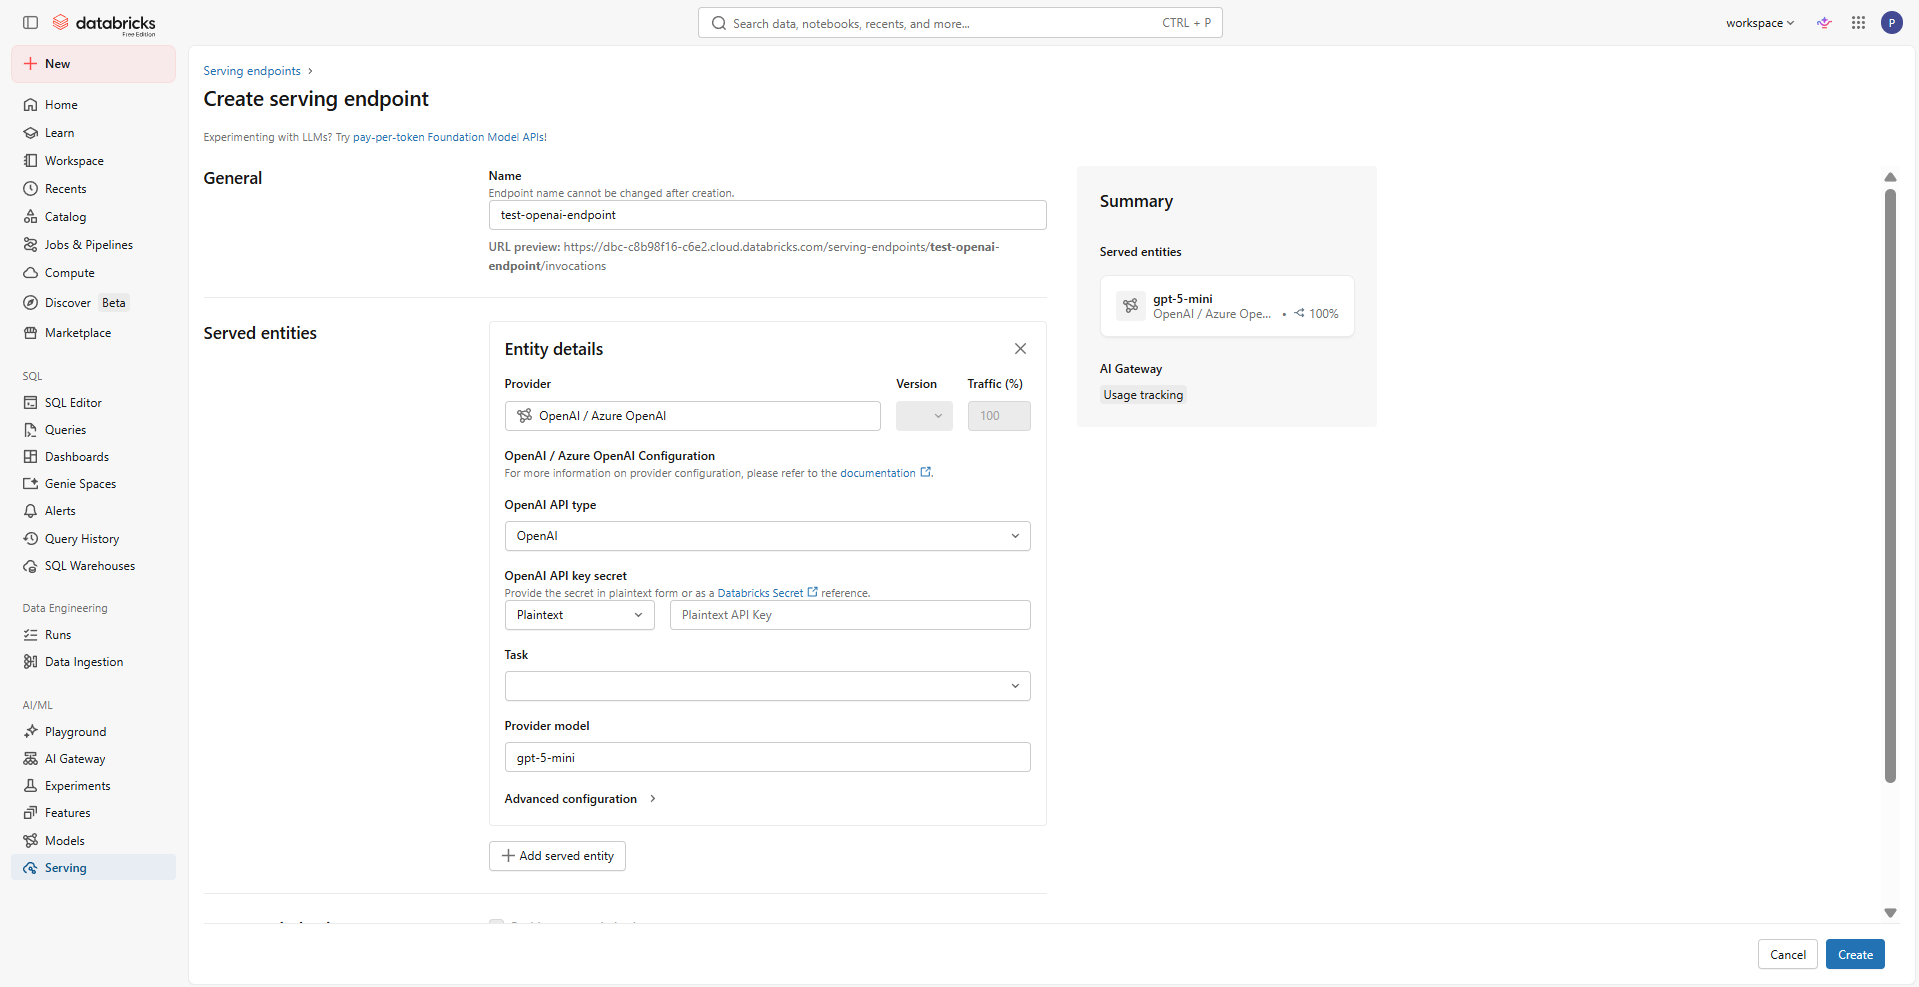
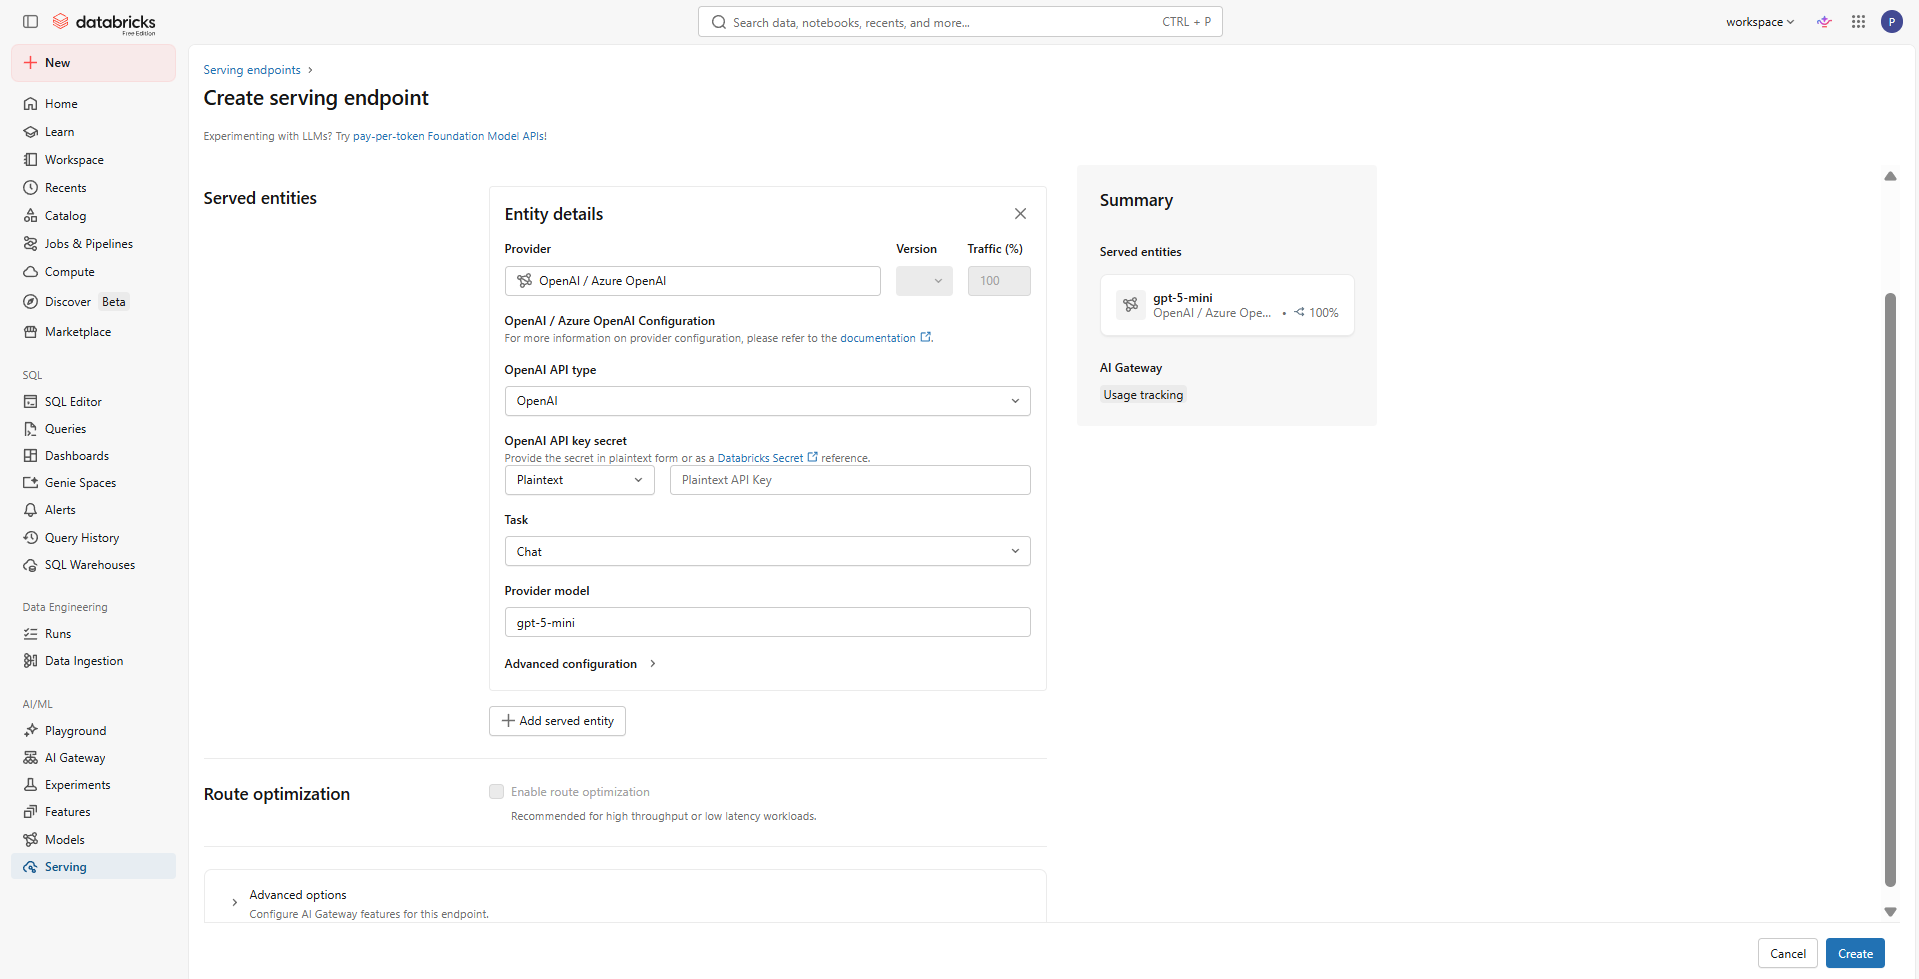
updates

diff --git a/README.md b/README.md
@@ -69,7 +69,7 @@ After choosing the "OpenAI API type" as "OpenAI":
 
 ![](./resources/databricks-create-model-serving-endpoint-openai-selected-2.png)
 
-In the "OpenAI API key secret" entry, add the API key secret generated and copied in the previous section. This is what Databricks will use to authorise its requests to the external model. Finally, specify the "Provider model" to be used:
+In the "OpenAI API key secret" entry, add the API key secret generated and copied in the previous section. This is what Databricks will use to authorise its requests to the external model. Finally, specify the "Task type" (in this example, "Chat" is chosen) and "Provider model" to be used (in this example, `gpt-5-mini` is given):
 
 ![](./resources/databricks-create-model-serving-endpoint-openai-selected-3.png)
 